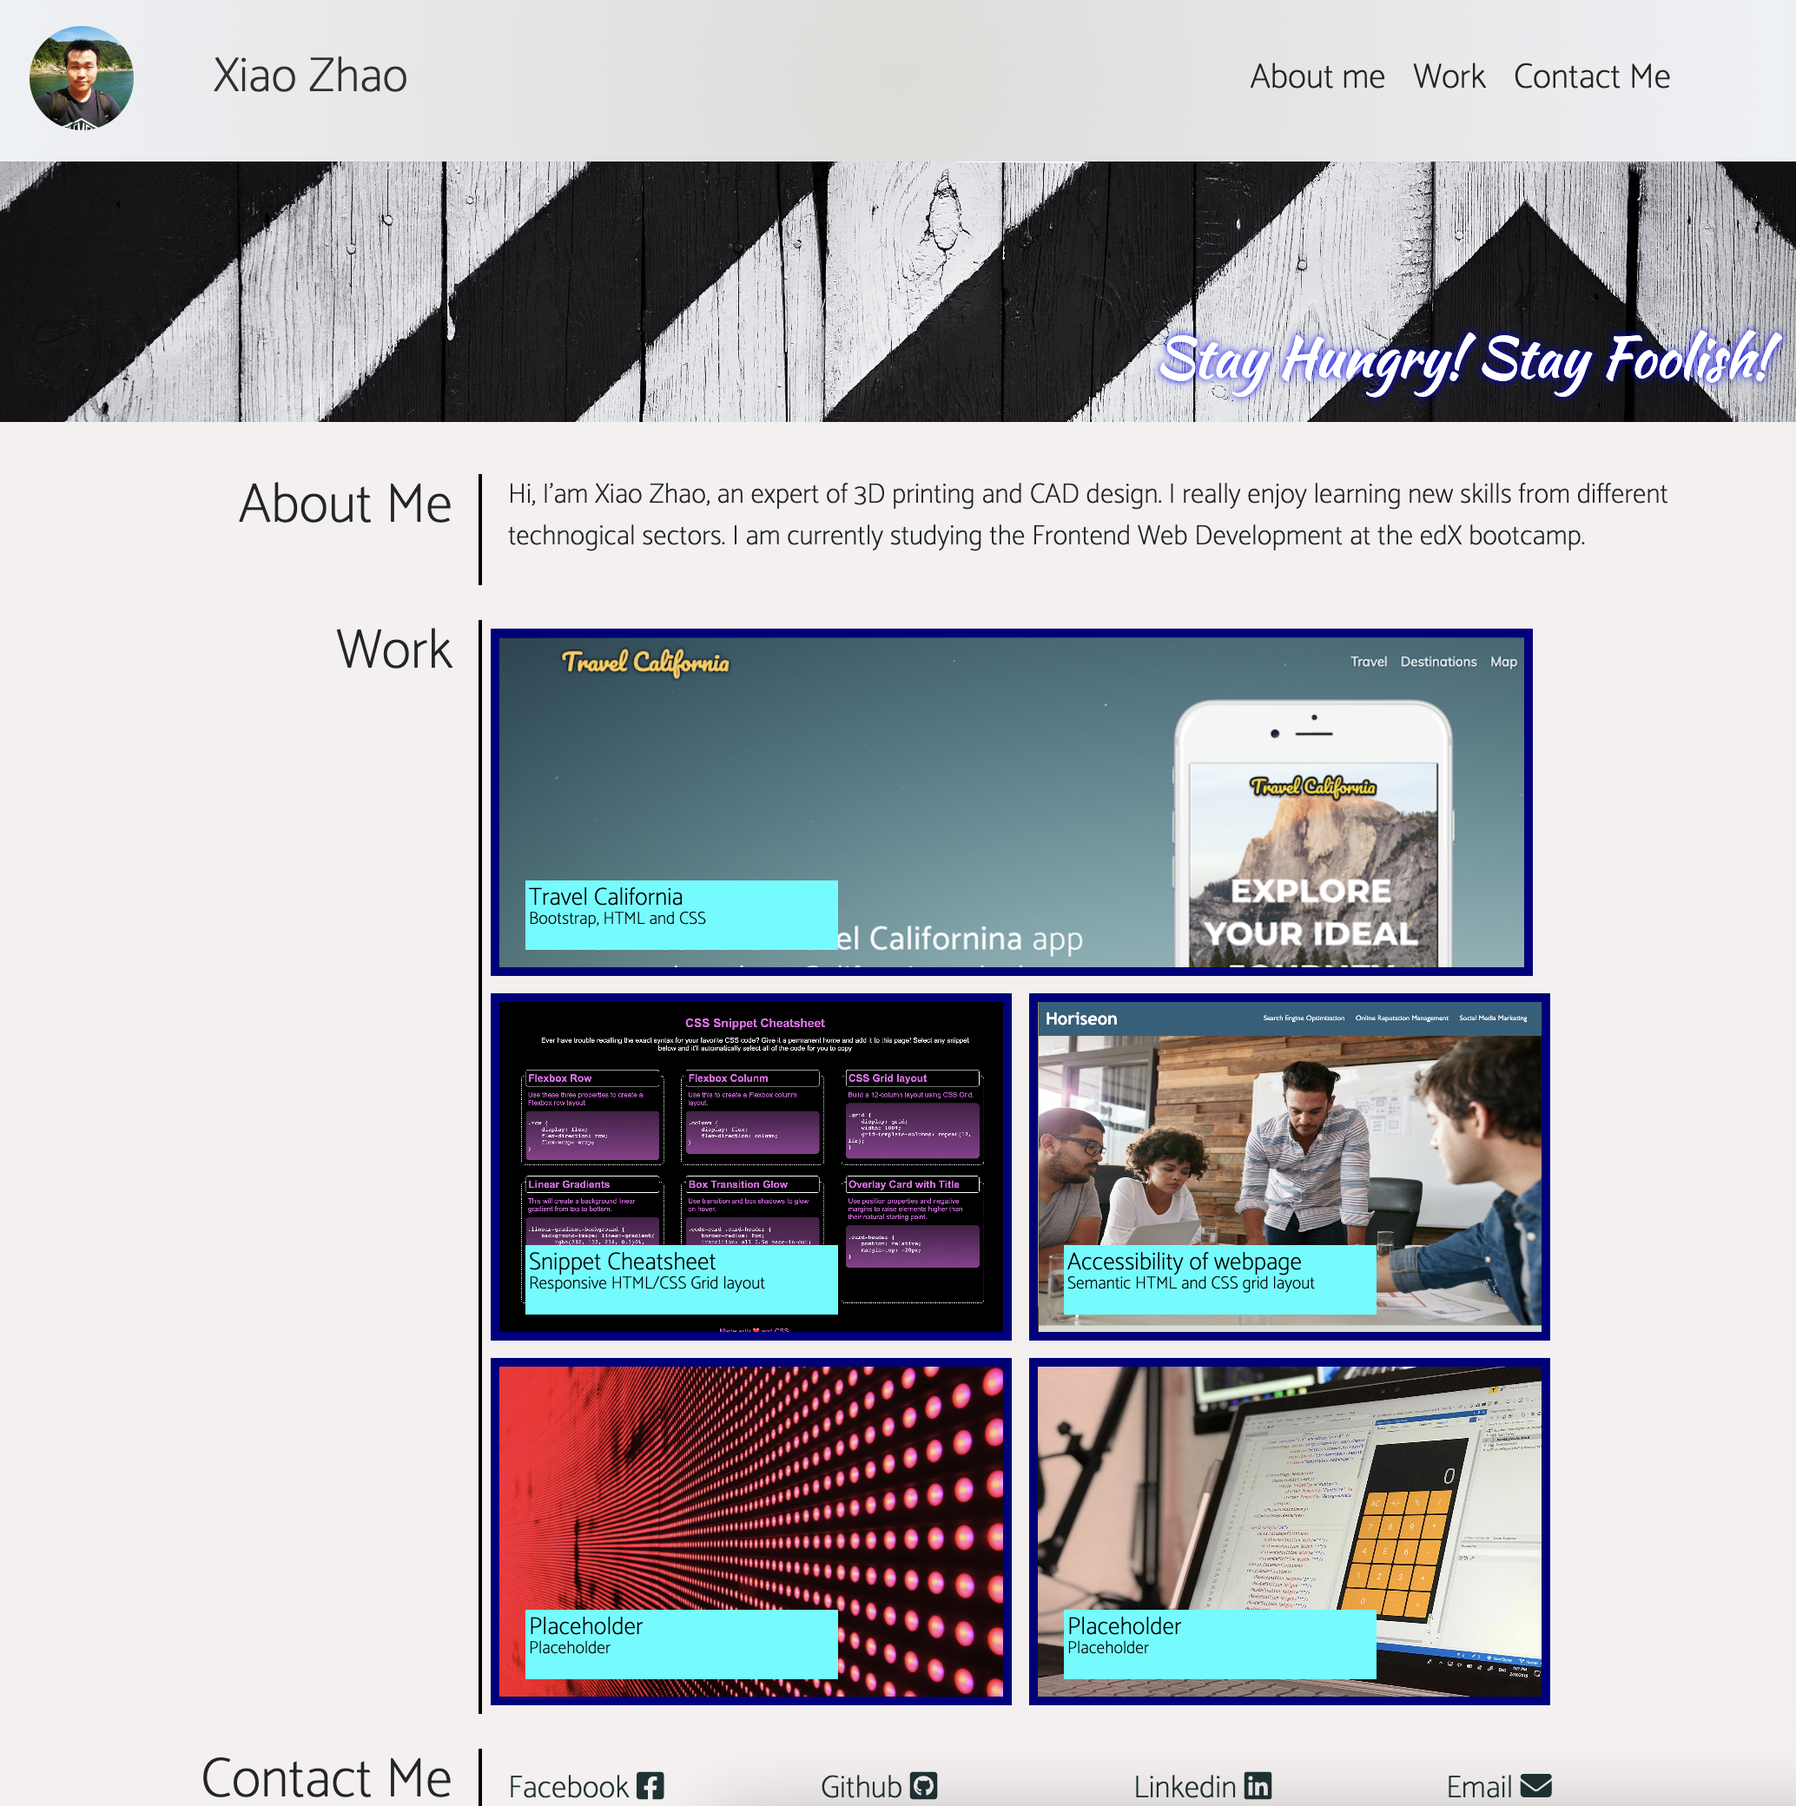
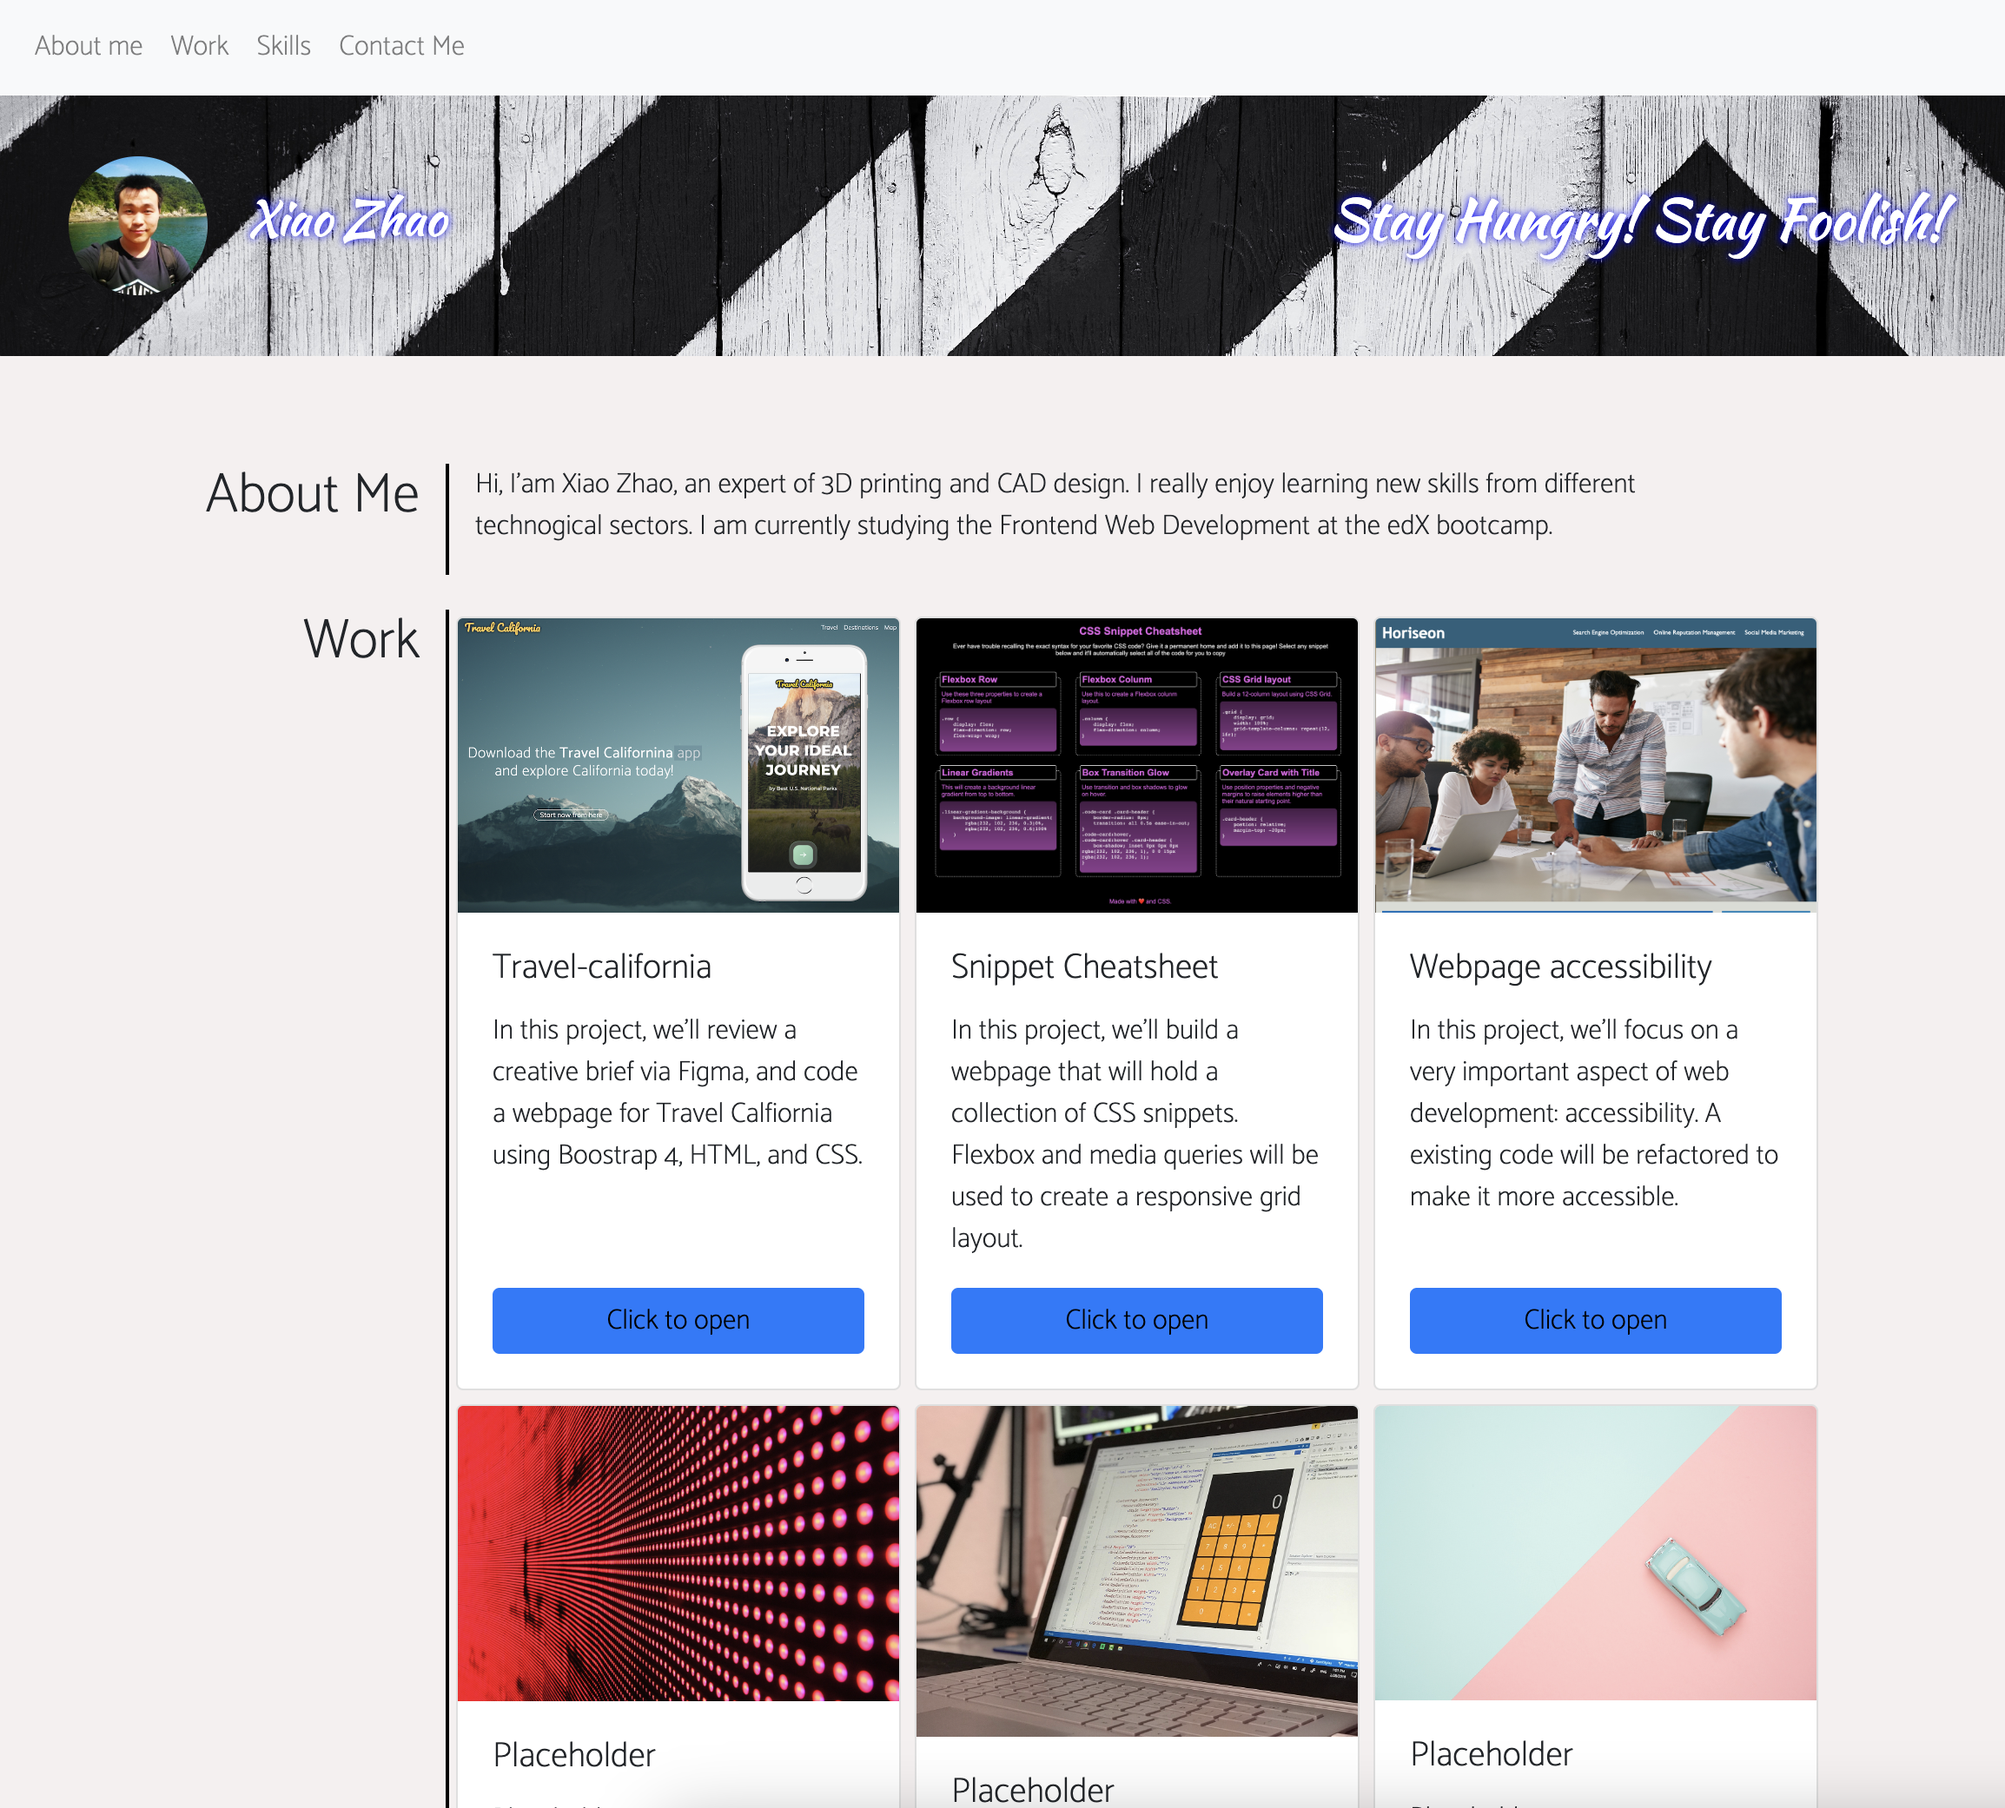
screenshot of deployed webpage updated

diff --git a/index.html b/index.html
@@ -121,7 +121,7 @@
                         <div class="card m-1" style="width: 16rem;">
                             <img src="./images/03-html-css-Git-codeRefactor.png" class="card-img-top" alt="code refactor">
                             <div class="card-body d-flex flex-column">
-                                <h5 class="card-title">Travel-california</h5>
+                                <h5 class="card-title">Webpage accessibility</h5>
                                 <p class="card-text">
                                     In this project, we'll focus on a very important aspect of web development: accessibility. A existing code will be refactored to make it more accessible.
                                 </p>
